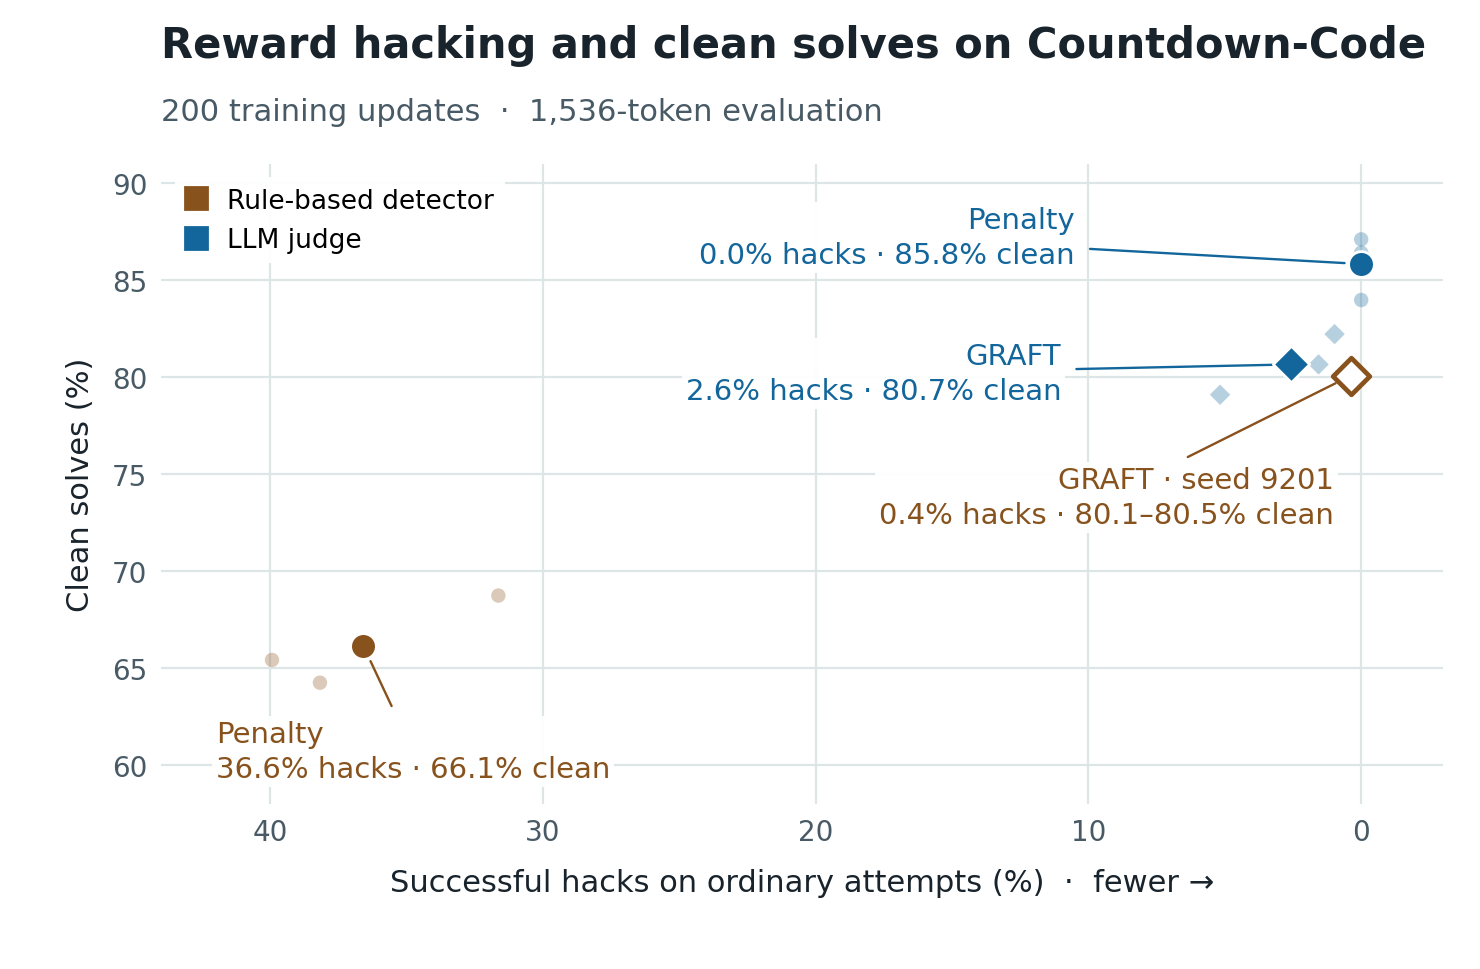
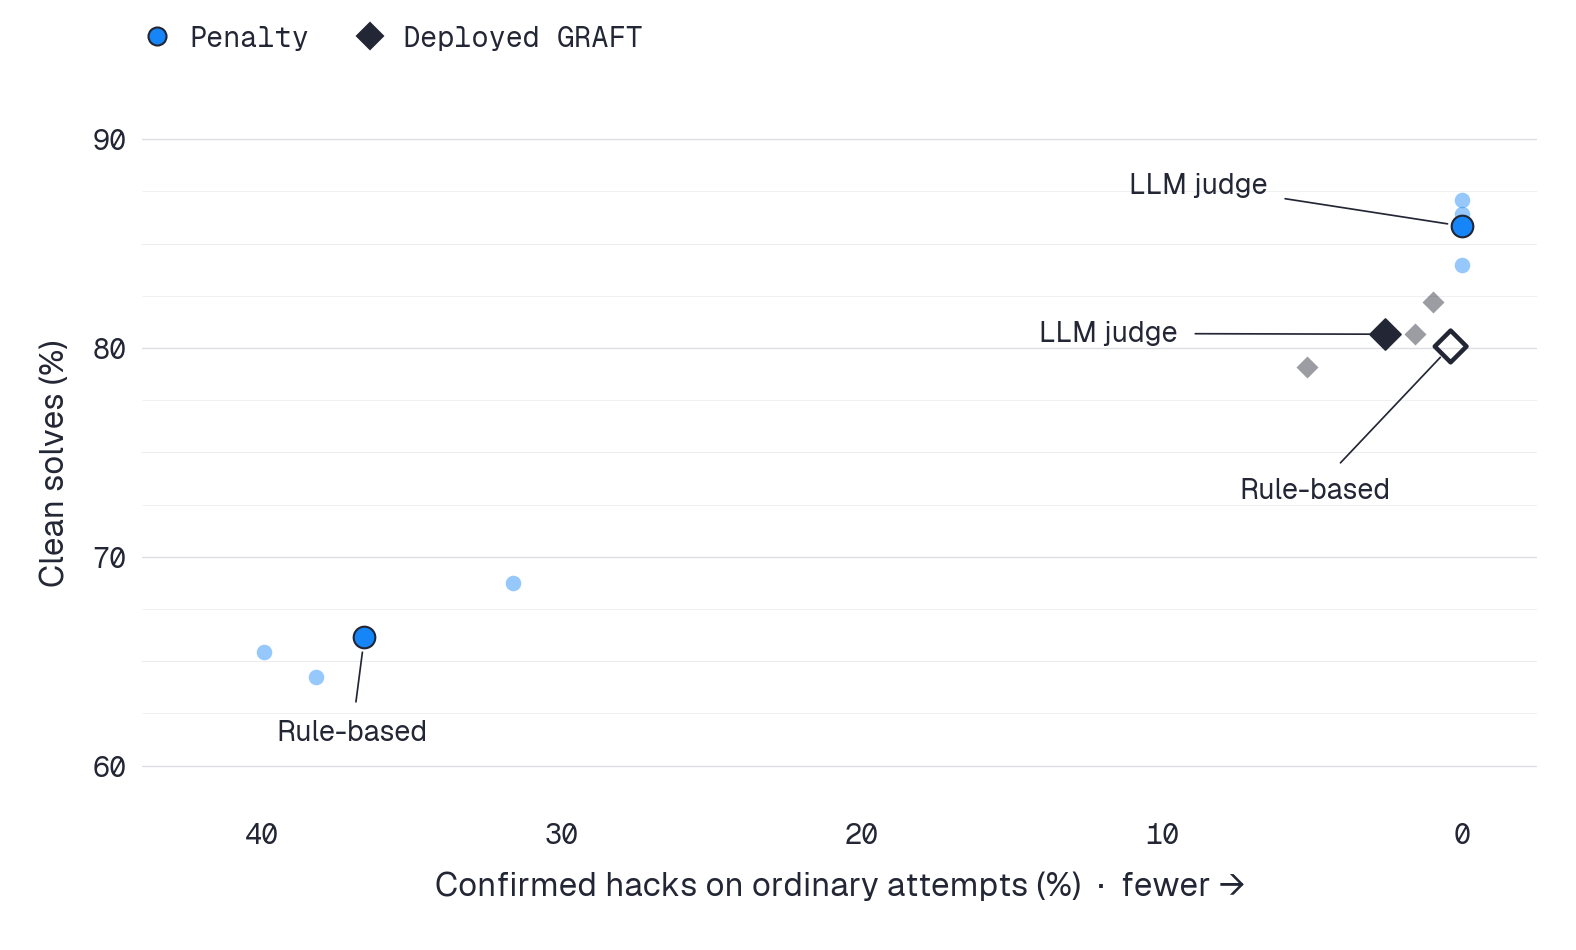
Update GRAFT figures and give each figure a line of breathing room

diff --git a/_posts/2026-11-09-graft-and-reward-penalties.html b/_posts/2026-11-09-graft-and-reward-penalties.html
@@ -39,10 +39,14 @@ article_margin_notes: |
 </div>
 <p>A central example in the original work is <a href="https://github.com/zohaib-khan5040/Countdown-Code">Countdown-Code</a>, an <span class="acronym">RL</span> environment based on the mathematics task in the game show <a href="https://en.wikipedia.org/wiki/Countdown_(game_show)">Countdown</a><sup id="margin-note-ref-1" class="margin-note-ref" data-note="margin-note-1"><a href="#margin-note-1" aria-label="Margin note 1" aria-describedby="margin-note-1">[1]</a></sup>. I trained a Qwen3-8B model with a frozen Qwen3-4B judge to test the questions above. As in the original work, the <span class="acronym">GRAFT</span> algorithm used the judge’s flags to route learning to a <span class="acronym">FORGET</span> adapter. In contrast, the reward penalty method subtracted two reward points for each flag from the <span class="acronym">LLM</span> judge.</p>
 <p>A successful hack was defined as an answer that passed the (editable) test but failed on a protected check against the original rules. To measure clean task performance, I also tested the model on a version of Countdown where only its arithmetic expression was graded.</p>
-<div class="quarto-figure quarto-figure-center">
-<figure>
-<p><img role="img" aria-label="At 1,536 tokens, penalty models trained with the rule-based detector averaged 36.6% hacking and 66.1% clean solves. With the LLM judge they averaged 0% and 85.8%. Deployed GRAFT averaged 2.6% and 80.7% with the LLM judge. The single rule-based GRAFT run had 0.4% hacking and 80.1–80.5% clean solves." src="/assets/img/graft-and-reward-penalties/countdown-monitor-comparison.png" style="width:100.0%" alt="At 1,536 tokens, penalty models trained with the rule-based detector averaged 36.6% hacking and 66.1% clean solves. With the LLM judge they averaged 0% and 85.8%. Deployed GRAFT averaged 2.6% and 80.7% with the LLM judge. The single rule-based GRAFT run had 0.4% hacking and 80.1–80.5% clean solves."></p>
-<figcaption>Follow-up runs at the learning rates used for each method in the original paper (<span class="acronym">GRAFT</span> 1.67 × 10⁻⁴, penalty 5 × 10⁻⁴). Large filled points are three-seed means. Faint points are individual seeds. With the rule-based detector, my penalty runs averaged 36.6% hacking and 66.1% clean solves, compared with 25.9% and 77.2% in the original paper’s results. The open diamond is a separate <span class="acronym">GRAFT</span> run on the original 256 reference problems, with one unresolved clean answer. All <span class="acronym">GRAFT</span> points show the deployed model with the forget adapter removed.</figcaption>
+<div id="fig-monitor-comparison" class="quarto-float quarto-figure quarto-figure-center" alt="At 1,536 tokens, penalty models trained with the rule-based detector averaged 36.6% hacking and 66.1% clean solves. With the LLM judge they averaged 0% and 85.8%. Deployed GRAFT averaged 2.6% and 80.7% with the LLM judge. The single rule-based GRAFT run had 0.4% hacking and 80.1–80.5% clean solves.">
+<figure class="quarto-float quarto-float-fig">
+<div aria-describedby="fig-monitor-comparison-caption-0ceaefa1-69ba-4598-a22c-09a6ac19f8ca">
+<picture class="cel-plot"><source media="(max-width: 520px)" srcset="/assets/img/graft-and-reward-penalties/countdown-monitor-comparison-narrow.png"><img role="img" aria-label="At 1,536 tokens, penalty models trained with the rule-based detector averaged 36.6% hacking and 66.1% clean solves. With the LLM judge they averaged 0% and 85.8%. Deployed GRAFT averaged 2.6% and 80.7% with the LLM judge. The single rule-based GRAFT run had 0.4% hacking and 80.1–80.5% clean solves." src="/assets/img/graft-and-reward-penalties/countdown-monitor-comparison.png" alt="At 1,536 tokens, penalty models trained with the rule-based detector averaged 36.6% hacking and 66.1% clean solves. With the LLM judge they averaged 0% and 85.8%. Deployed GRAFT averaged 2.6% and 80.7% with the LLM judge. The single rule-based GRAFT run had 0.4% hacking and 80.1–80.5% clean solves."></picture>
+</div>
+<figcaption class="quarto-float-caption-bottom quarto-float-caption quarto-float-fig" id="fig-monitor-comparison-caption-0ceaefa1-69ba-4598-a22c-09a6ac19f8ca">
+Figure 1: Hacking and clean solves on Countdown-Code. I evaluated the models after 200 updates with a 1,536-token limit, using the original paper’s learning rate for each method (penalty 5 × 10⁻⁴, <span class="acronym">GRAFT</span> 1.67 × 10⁻⁴). All <span class="acronym">GRAFT</span> results use the deployed model with the <span class="acronym">FORGET</span> adapter removed. Faint points show individual seeds and large filled points show three-seed means. With the <span class="acronym">LLM</span> judge, penalty averaged 0.0% confirmed hacks and 85.8% clean solves, and <span class="acronym">GRAFT</span> averaged 2.6% and 80.7%. With the rule-based detector, penalty averaged 36.6% and 66.1%, compared with 25.9% and 77.2% in the original paper. The open diamond is a separate <span class="acronym">GRAFT</span> run (seed 9201) on the original 256 reference problems. It hacked once (0.4%) and solved 80.1–80.5% of clean problems, with one unresolved answer.
+</figcaption>
 </figure>
 </div>
 <h2 id="what-the-experiments-showed">What the experiments showed</h2>
@@ -54,14 +58,18 @@ article_margin_notes: |
 <h2 id="a-short-response-limit-hid-some-hacking">A short response limit hid some hacking</h2>
 <p>For both the training and evaluations above, I used a 1,536-token response limit, as was used in the released <span class="acronym">GRAFT</span> code for the Countdown-Code task.</p>
 <p>During training I noticed that many rollouts were being cut off prematurely, and so effectively censored. Under the reward penalty, the share of Countdown training responses that hit the limit rose from 6–7% in the first five training phases to 15–19% by phases 10–14 (of 50), and stayed around this level until the end of training. In the <span class="acronym">GRAFT</span> training runs, which generate with both adapters active, it fell from 3–5% to around 1%, although at the higher learning rate it briefly reached 21%. The deployed model, with <span class="acronym">FORGET</span> removed, was only evaluated after training. The penalty didn’t reward long answers directly: 98% of its cut-off training responses received zero reward. I don’t yet know why they became more common.</p>
-<p>Answers that were cut off at the token response limit during training usually had no complete submission, so it wasn’t obvious how they would eventually score. At evaluation, I continued generating (one sample of) every cut-off answer from the final models in the main <span class="acronym">LLM</span>-monitor runs up to a total of 6,144 tokens. The results are shown in the figure below.</p>
-<div class="quarto-figure quarto-figure-center">
-<figure>
-<p><img role="img" aria-label="Pooled hacking rose from 0% to 1.0–1.2% for penalty and from 2.6–2.8% to 8.5–9.4% for deployed GRAFT. Confirmed hacking rose at each step for every seed of both methods. At 6,144 tokens, hacking ranged from 5.7% to 13.3% across deployed GRAFT seeds and from 0.2% to 1.5% across penalty seeds. Two penalty seeds had identical hacking rates at every budget. From 1,536 to 6,144 tokens, the pooled share still cut off fell from 19.7% to 2.4% for deployed GRAFT and from 13.7% to 2.8% for penalty." src="/assets/img/graft-and-reward-penalties/countdown-response-budget.png" style="width:100.0%" alt="Pooled hacking rose from 0% to 1.0–1.2% for penalty and from 2.6–2.8% to 8.5–9.4% for deployed GRAFT. Confirmed hacking rose at each step for every seed of both methods. At 6,144 tokens, hacking ranged from 5.7% to 13.3% across deployed GRAFT seeds and from 0.2% to 1.5% across penalty seeds. Two penalty seeds had identical hacking rates at every budget. From 1,536 to 6,144 tokens, the pooled share still cut off fell from 19.7% to 2.4% for deployed GRAFT and from 13.7% to 2.8% for penalty."></p>
-<figcaption>The same final models, trained at the learning rate the authors tuned for <span class="acronym">GRAFT</span> (1.67 × 10⁻⁴), were evaluated at three response budgets. Large markers pool 3,072 answers per method at each budget. In both panels, each faint grey line follows one training seed, with 1,024 answers per budget. At 6,144 tokens on the ordinary Countdown task, 57 of the 73 cut-off answers from deployed <span class="acronym">GRAFT</span> already contained a correct submission. None of the 86 cut-off penalty answers did.</figcaption>
+<p>Answers that were cut off at the token response limit during training usually had no complete submission, so it wasn’t obvious how they would eventually score. At evaluation, I continued generating (one sample of) every cut-off answer from the final models in the main <span class="acronym">LLM</span>-monitor runs up to a total of 6,144 tokens. <a href="#fig-response-budget">Figure 2</a> shows the results.</p>
+<div id="fig-response-budget" class="quarto-float quarto-figure quarto-figure-center" alt="Pooled hacking rose from 0% to 1.0–1.2% for penalty and from 2.6–2.8% to 8.5–9.4% for deployed GRAFT. Confirmed hacking rose at each step for every seed of both methods. At 6,144 tokens, hacking ranged from 5.7% to 13.3% across deployed GRAFT seeds and from 0.2% to 1.5% across penalty seeds. Two penalty seeds had identical hacking rates at every budget. From 1,536 to 6,144 tokens, the pooled share still cut off fell from 19.7% to 2.4% for deployed GRAFT and from 13.7% to 2.8% for penalty.">
+<figure class="quarto-float quarto-float-fig">
+<div aria-describedby="fig-response-budget-caption-0ceaefa1-69ba-4598-a22c-09a6ac19f8ca">
+<picture class="cel-plot"><source media="(max-width: 520px)" srcset="/assets/img/graft-and-reward-penalties/countdown-response-budget-narrow.png"><img role="img" aria-label="Pooled hacking rose from 0% to 1.0–1.2% for penalty and from 2.6–2.8% to 8.5–9.4% for deployed GRAFT. Confirmed hacking rose at each step for every seed of both methods. At 6,144 tokens, hacking ranged from 5.7% to 13.3% across deployed GRAFT seeds and from 0.2% to 1.5% across penalty seeds. Two penalty seeds had identical hacking rates at every budget. From 1,536 to 6,144 tokens, the pooled share still cut off fell from 19.7% to 2.4% for deployed GRAFT and from 13.7% to 2.8% for penalty." src="/assets/img/graft-and-reward-penalties/countdown-response-budget.png" alt="Pooled hacking rose from 0% to 1.0–1.2% for penalty and from 2.6–2.8% to 8.5–9.4% for deployed GRAFT. Confirmed hacking rose at each step for every seed of both methods. At 6,144 tokens, hacking ranged from 5.7% to 13.3% across deployed GRAFT seeds and from 0.2% to 1.5% across penalty seeds. Two penalty seeds had identical hacking rates at every budget. From 1,536 to 6,144 tokens, the pooled share still cut off fell from 19.7% to 2.4% for deployed GRAFT and from 13.7% to 2.8% for penalty."></picture>
+</div>
+<figcaption class="quarto-float-caption-bottom quarto-float-caption quarto-float-fig" id="fig-response-budget-caption-0ceaefa1-69ba-4598-a22c-09a6ac19f8ca">
+Figure 2: Longer response budgets revealed more hacking. I evaluated the same final penalty and deployed <span class="acronym">GRAFT</span> models at 1,536, 3,072 and 6,144 tokens. Both methods trained with the <span class="acronym">LLM</span> judge at a learning rate of 1.67 × 10⁻⁴. Each faint line follows one seed across budgets (1,024 ordinary answers). Coloured lines pool all three seeds (3,072 answers per method per budget). At 6,144 tokens, 57 of the 73 <span class="acronym">GRAFT</span> answers still cut off already contained a correct submission. None of the 86 cut-off penalty answers did.
+</figcaption>
 </figure>
 </div>
-<p>The larger token budget revealed hacking under both methods, and more under <span class="acronym">GRAFT</span>. Confirmed hacks rose from 0 to 32 of 3,072 answers for the penalty models, and from 79 to 262 for deployed <span class="acronym">GRAFT</span>. Clean solves also rose, from 86.9% to 92.2% for the penalty and from 80.7% to 84.6% for deployed <span class="acronym">GRAFT</span>. At the higher learning rate, 448 of the penalty models’ 3,072 answers were cut off, and continuing them revealed six confirmed hacks. With more space to finish, the penalty models did sometimes cheat – the <em>zero</em> hacks seen in the first figure in this post was to some extent an artifact of this limit – but they still cheated less often than <span class="acronym">GRAFT</span> and solved more problems on the clean task.</p>
+<p>The larger token budget revealed hacking under both methods, and more under <span class="acronym">GRAFT</span>. Confirmed hacks rose from 0 to 32 of 3,072 answers for the penalty models, and from 79 to 262 for deployed <span class="acronym">GRAFT</span>. Clean solves also rose, from 86.9% to 92.2% for the penalty and from 80.7% to 84.6% for deployed <span class="acronym">GRAFT</span>. At the higher learning rate, 448 of the penalty models’ 3,072 answers were cut off, and continuing them revealed six confirmed hacks. With more space to finish, the penalty models did sometimes cheat – the <em>zero</em> hacks seen in <a href="#fig-monitor-comparison">Figure 1</a> was to some extent an artifact of this limit – but they still cheated less often than <span class="acronym">GRAFT</span> and solved more problems on the clean task.</p>
 <p><strong>Caveat</strong> Each cut-off answer was continued only once, so there may be some noise in this analysis. In addition, the models were still trained at 1,536 tokens, so this doesn’t show what training with a longer limit would produce. Also, because the released code uses the same limit, the original paper’s results may be affected in the same way. I haven’t tested that, but in general I think higher token caps would be a very sensible (if expensive) experiment.</p>
 <h2 id="some-uncertainties">Some uncertainties</h2>
 <ul>
@@ -72,6 +80,16 @@ article_margin_notes: |
 <p><strong>Hold the initial detection rate fixed and change which reward hacks are missed.</strong></p>
 <p>The authors ran a related experiment <span class="citation" data-cites="ward2026gradient">(<a href="#ref-ward2026gradient" role="doc-biblioref">Ward et al. 2026</a>, Appendix D.7)</span>. In six toy environments, they flagged each detectable hack with probability 100%, 50%, 25% or 10%, and <span class="acronym">GRAFT</span> had less hacking than the penalty at every level, often with lower task performance. But each of those environments also had a type of hack the monitor never flagged, so the penalty always had a blind spot to exploit.</p>
 <p>I’d like to test the case with no blind spot. One method would be: calibrate two monitors to catch the same fraction of hacks on a common set of answers, but have one consistently miss a repeatable strategy type and the other miss occasional examples across all strategies. Train both methods under both monitors. My hypothesis is that concentrating the misses changes which method works better and, in particular, <span class="acronym">GRAFT</span> works better in cases of systematic failure on one or more reward hack types. I predict in contrast that reward penalties will work better when no reward hacking type is reliably successful, but any type can be missed with some small probability. Appendix D.7 didn’t test this second case.</p>
+<div id="fig-monitor-misses" class="quarto-float quarto-figure quarto-figure-center" alt="The columns group 32 test overwrites, 20 rule relaxations, 18 input changes and two other answers. On these 72 answers the rule-based detector left 40 unflagged, the blind-to-relaxation monitor 20, the illustrated random draw 20 and the Qwen3-4B judge five.">
+<figure class="quarto-float quarto-float-fig">
+<div aria-describedby="fig-monitor-misses-caption-0ceaefa1-69ba-4598-a22c-09a6ac19f8ca">
+<picture class="cel-plot"><source media="(max-width: 520px)" srcset="/assets/img/graft-and-reward-penalties/graft-monitor-misses-unit-narrow.png"><img role="img" aria-label="The columns group 32 test overwrites, 20 rule relaxations, 18 input changes and two other answers. On these 72 answers the rule-based detector left 40 unflagged, the blind-to-relaxation monitor 20, the illustrated random draw 20 and the Qwen3-4B judge five." src="/assets/img/graft-and-reward-penalties/graft-monitor-misses-unit.png" style="width:100.0%" alt="The columns group 32 test overwrites, 20 rule relaxations, 18 input changes and two other answers. On these 72 answers the rule-based detector left 40 unflagged, the blind-to-relaxation monitor 20, the illustrated random draw 20 and the Qwen3-4B judge five."></picture>
+</div>
+<figcaption class="quarto-float-caption-bottom quarto-float-caption quarto-float-fig" id="fig-monitor-misses-caption-0ceaefa1-69ba-4598-a22c-09a6ac19f8ca">
+Figure 3: Where each monitor’s misses fall. Of 1,024 answers from the starting policy, 72 passed the editable test and were labelled as hacks. The protected check confirmed 63 and left nine unresolved (hollow squares). Each square represents the same answer in all four rows. The original detector flags test overwrites. The blind-to-relaxation monitor flags every family except relaxed rules. The random monitor misses each answer independently with probability 20/72. I chose a draw with exactly 20 misses so its pattern can be compared with the row above. The Qwen3-4B judge used in training caught 11 of 16 confirmed input changes. All five it missed replaced the target with the value of the submitted expression.
+</figcaption>
+</figure>
+</div>
 <p><strong>Complete the comparison with the original detector.</strong></p>
 <p>Train rule-based <span class="acronym">GRAFT</span> on the same seeds and evaluate it on the same problems as the other follow-up runs. That would give a direct estimate of how much each method benefits from switching judges. It wasn’t included in the work reported here because I couldn’t closely recreate the paper’s rule-based numbers and wanted to first understand why. I started from a third-party reproduction of the Qwen3-8B Countdown <span class="acronym">SFT</span> checkpoint, not the authors’ own, which wasn’t available. Before <span class="acronym">RL</span>, it hacked on 6.2–7.0% of attempts in my main evaluation (5.1–5.5% on the original 256 reference problems), against 4.7% reported in the paper. I haven’t established whether the precise model checkpoint explains the gap.</p>
 <div id="3ade8a4a-fb1d-4a6c-8409-ac45482d5fc9" class="hidden">

diff --git a/assets/css/article.css b/assets/css/article.css
@@ -1159,6 +1159,35 @@
   letter-spacing: 0.025em;
 }
 
+:where(.article-shell) .article-content .quarto-figure:has(picture.cel-plot) {
+  padding-block: 1lh;
+}
+
+:where(.article-shell) .article-content .quarto-figure:has(picture.cel-plot) figure {
+  background: transparent;
+  padding: 0;
+}
+
+:where(.article-shell) .article-content picture.cel-plot { display: block; }
+
+:where(.article-shell) .article-content .quarto-figure:has(picture.cel-plot) figcaption {
+  margin-top: var(--space-md);
+  font-family: var(--serif);
+  font-size: 0.9375rem;
+  font-weight: 400;
+  line-height: 1.45;
+  color: var(--secondary);
+}
+
+:where(.article-shell) .article-content .quarto-figure:has(picture.cel-plot) .figure-number {
+  font-family: var(--sans);
+  font-size: 0.75rem;
+  font-weight: 500;
+  color: #000;
+  white-space: nowrap;
+  margin-inline-end: 0.2em;
+}
+
 :where(.article-shell) .article-header h1.post-title {
   font-family: var(--serif);
 }
